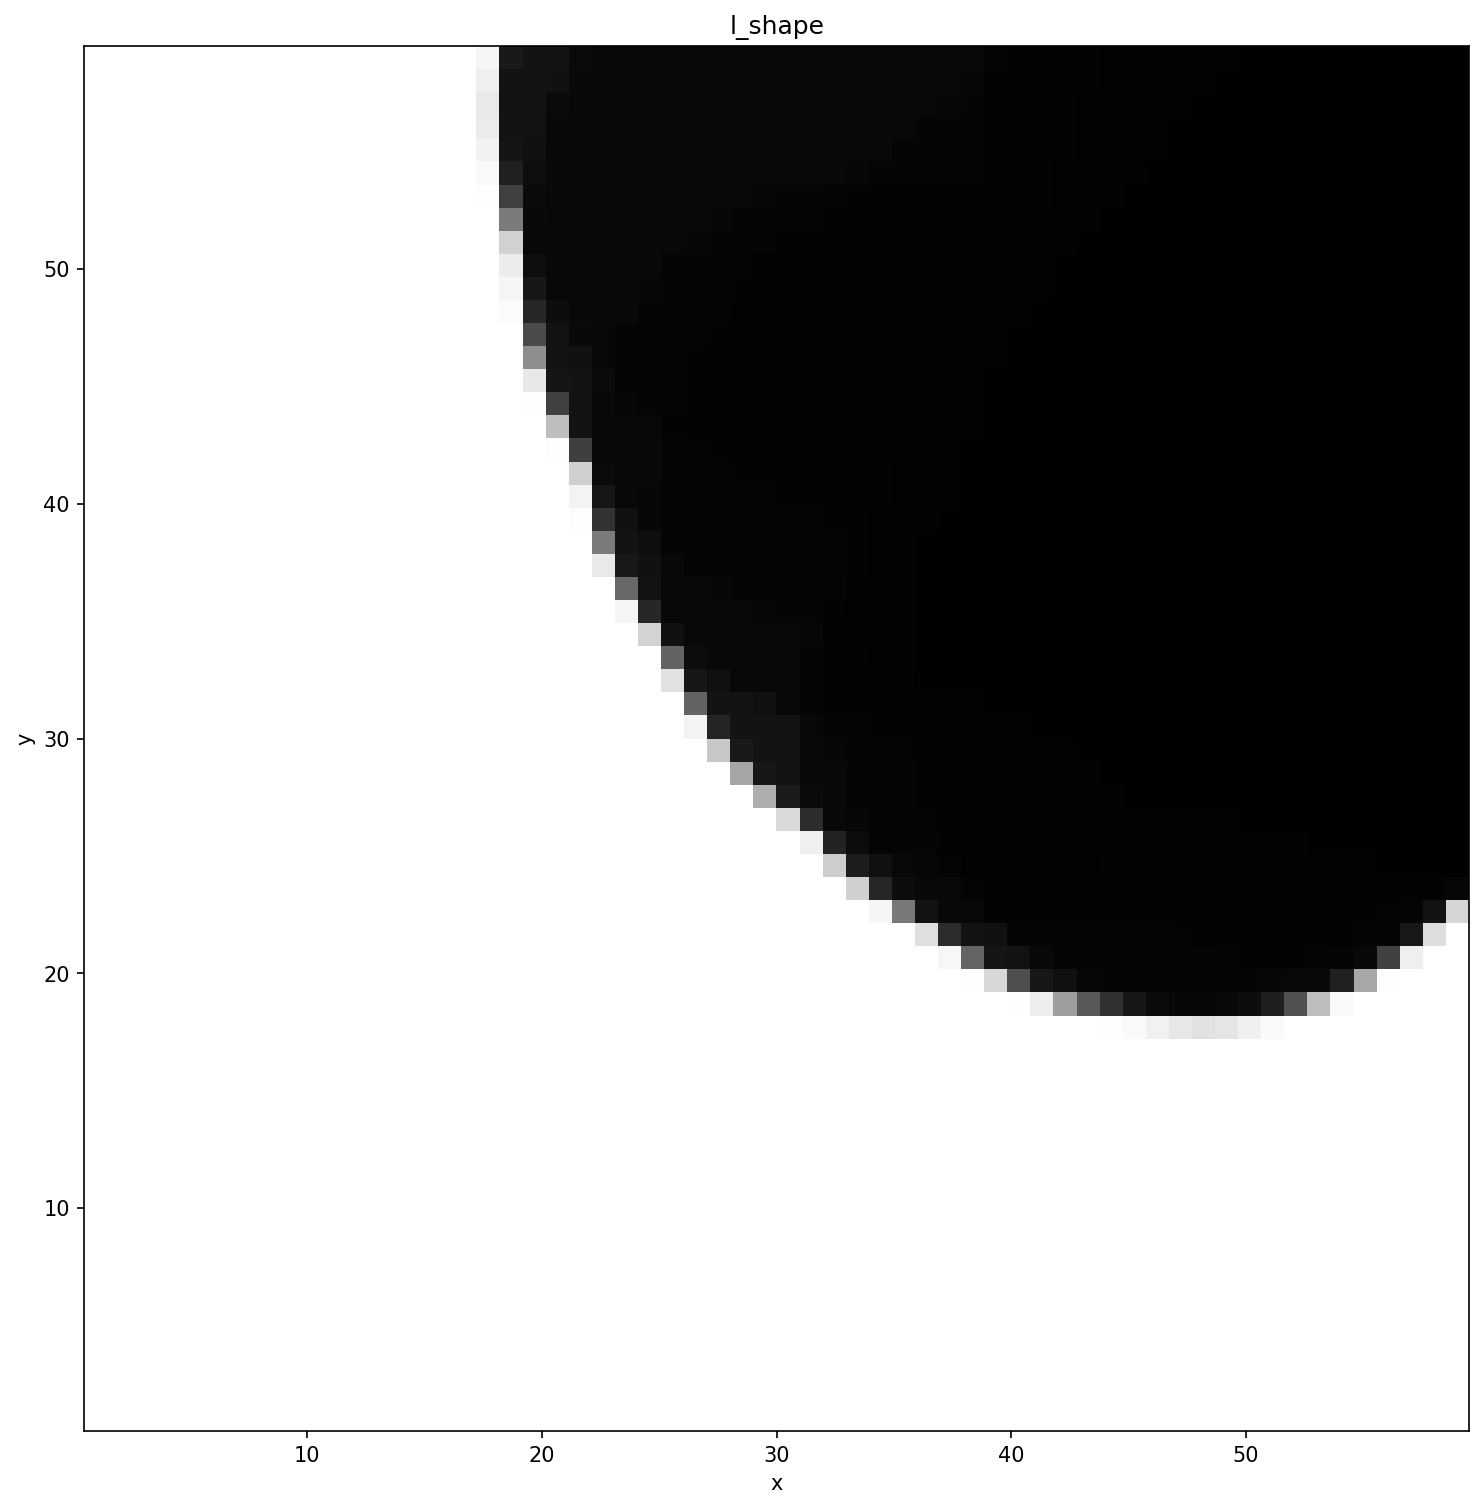
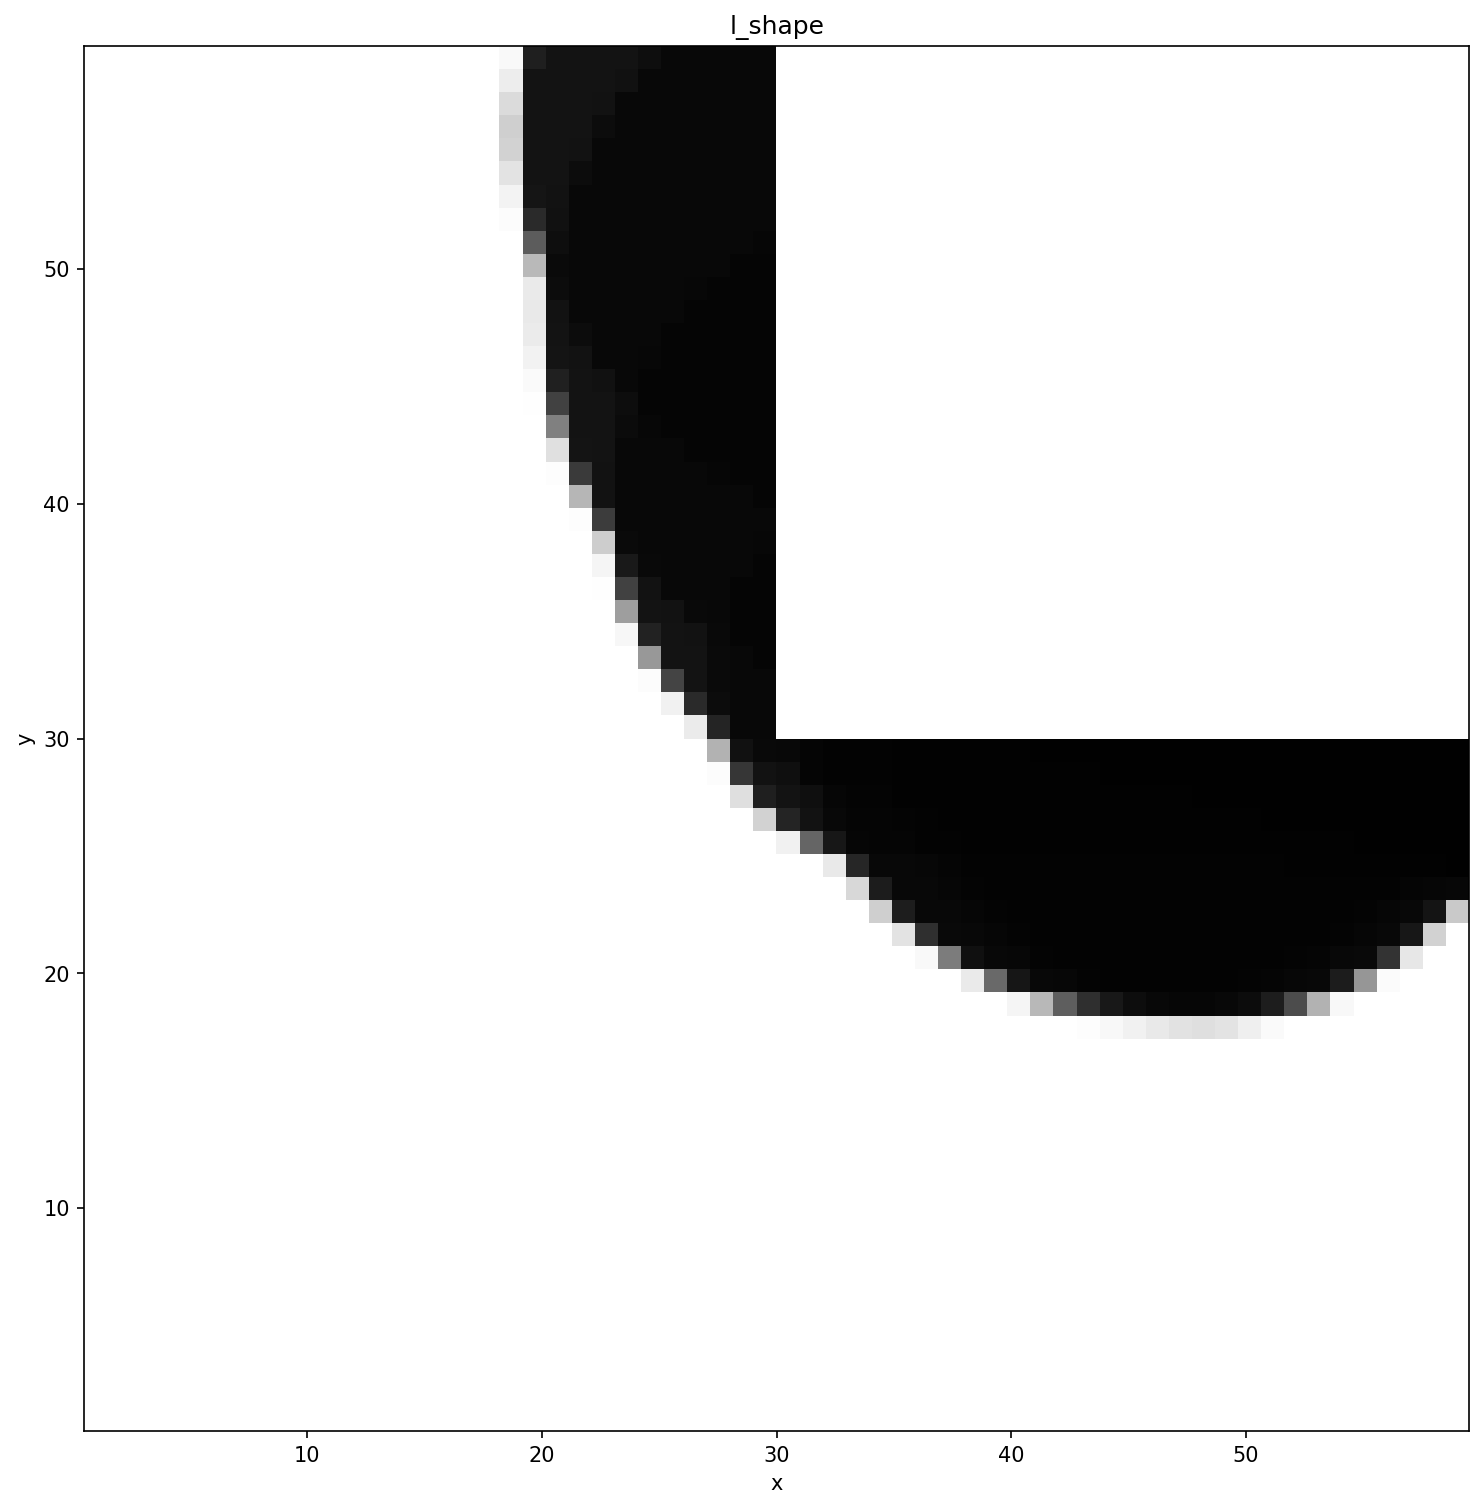
fix: tighter MMA asymptotes and mask non-design elements in density plot
- Tighten all presets: max_asymptote_distance 0.5→0.05, min_asymptote_distance 0.001→0.00001
  so MMA takes smaller, more conservative steps — matches free_runner.py reference settings
- Fix pipeline density capture: zero out empty_elements (non-design region) in rho_E
  before storing in OptimisationResult, so the density plot correctly shows the void
  (was showing GGP projection spilling into the non-design void, masking the true topology)
- Regenerate l_shape and mbb images with corrected settings

Claude-Session: https://claude.ai/code/session_01Queb8V5EuSbTaDyBGyr8wK

diff --git a/ggp/optimization/pipeline.py b/ggp/optimization/pipeline.py
@@ -249,6 +249,8 @@ class GGPPipeline:
         try:
             geom_discipline.execute({"x_vars": x_opt})
             density_field = np.asarray(geom_discipline.local_data["rho_E"]).flatten().copy()
+            if analysis.empty_elements:
+                density_field[analysis.empty_elements] = 0.0
         except Exception:
             density_field = None
 
